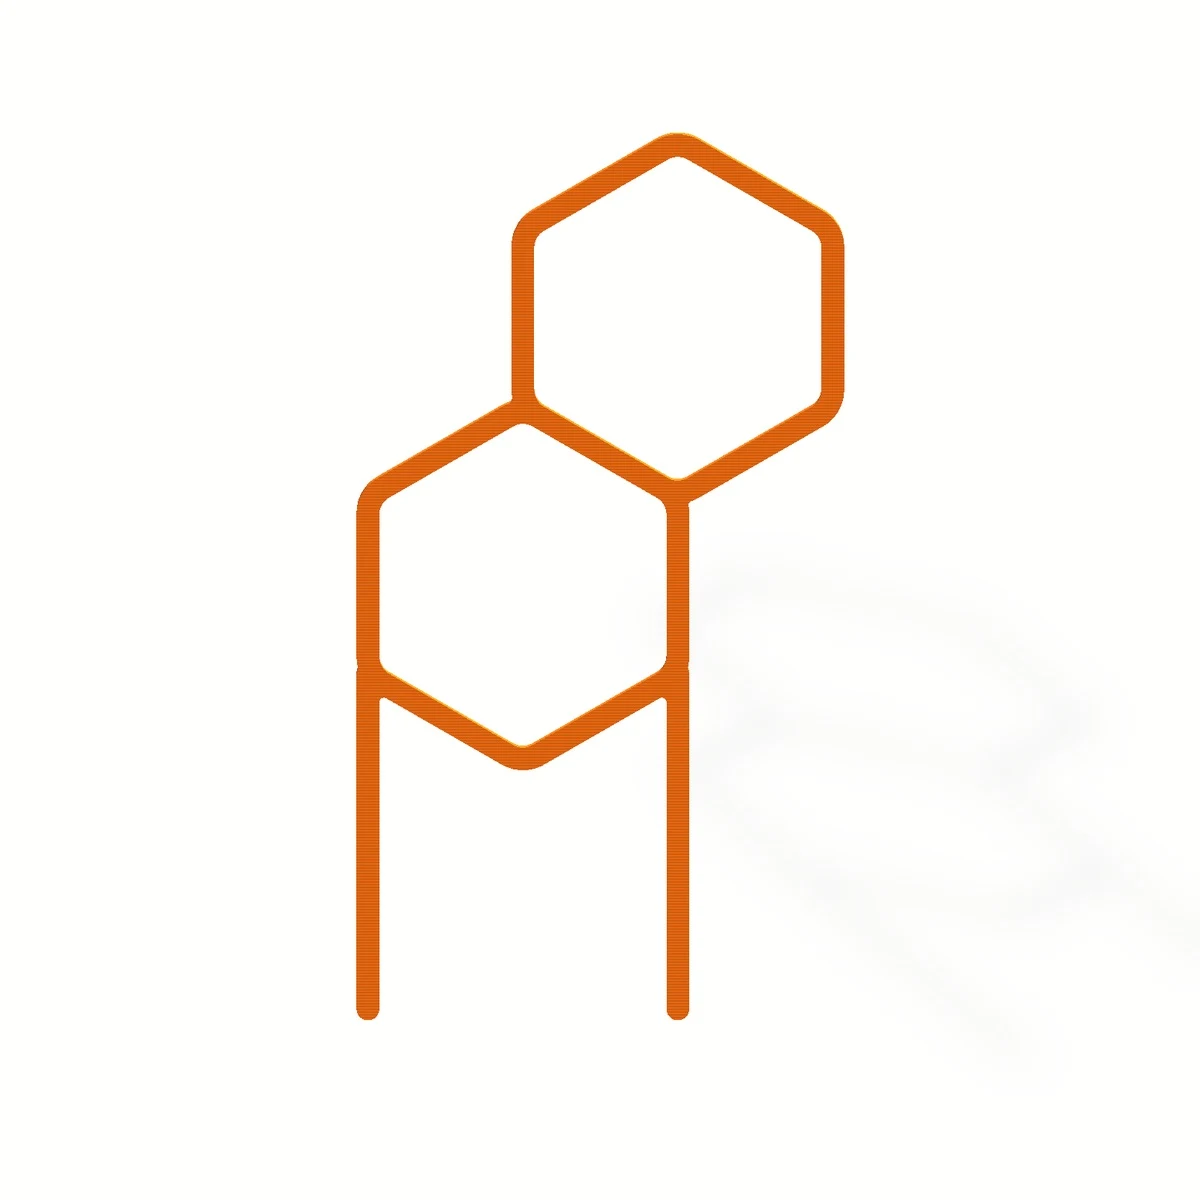
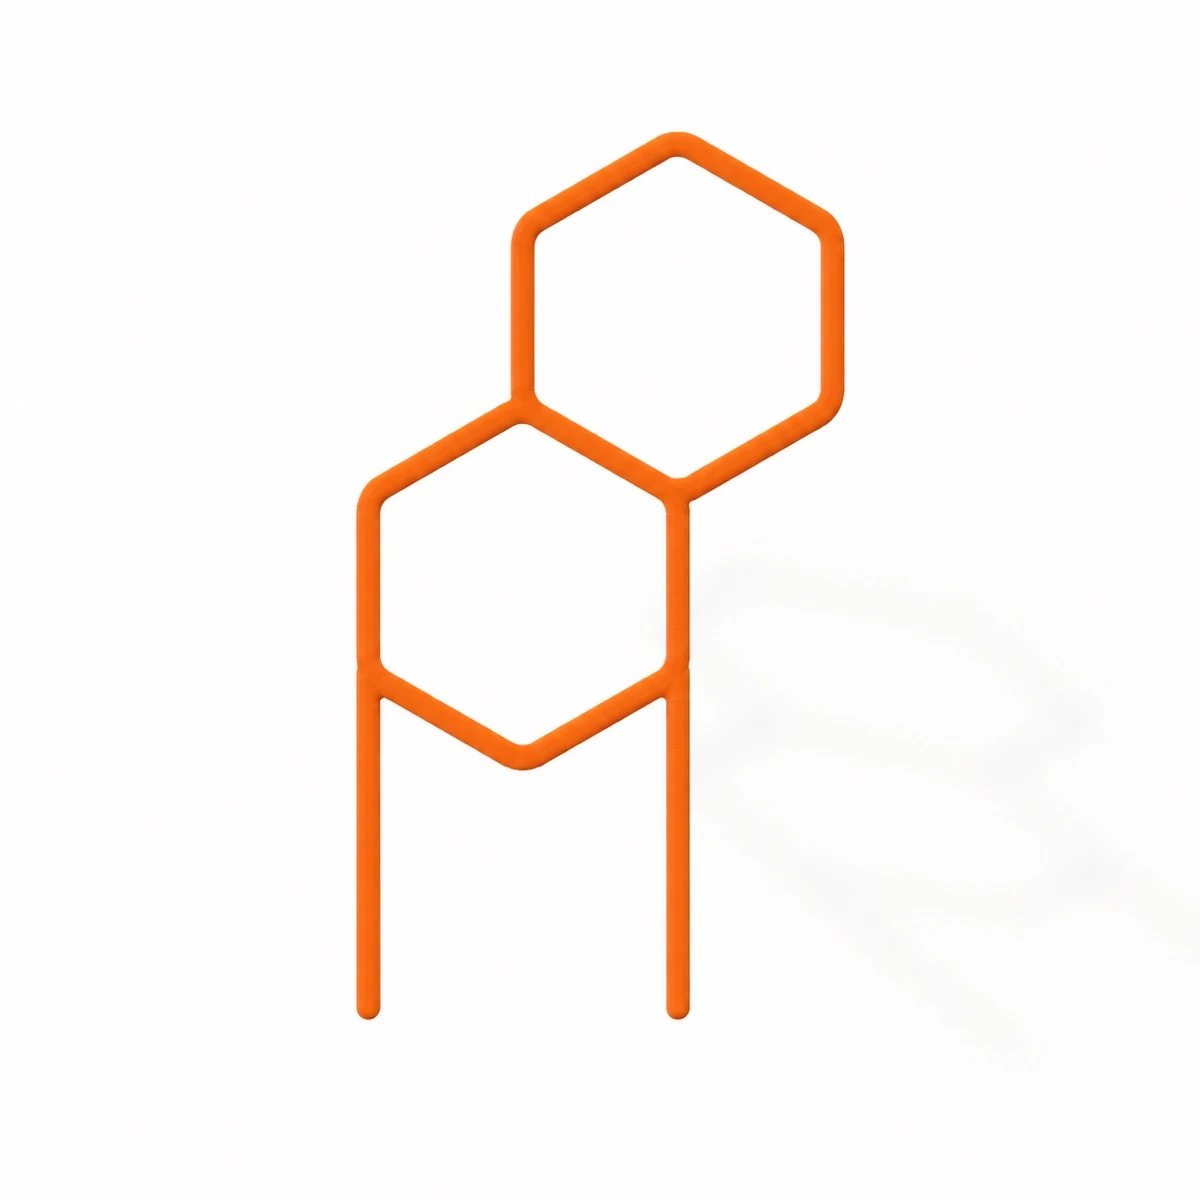
ホームの色切替にオレンジ/ライトグレーを追加（樹脂製品7点、Codex生成の色替え写真）

Changed region(s): [[0.2775, 0.1542, 0.4933, 0.8633], [0.4625, 0.0925, 0.7092, 0.8633]]

diff --git a/app/components/BaseClone.tsx b/app/components/BaseClone.tsx
@@ -11,19 +11,22 @@ const SHOP = "https://zukeplants.base.shop";
 
 // 2026-08-22 増澤さん要望: ホームでブラック/ホワイトを切り替え。商品画像とライフスタイル写真が連動する。
 // BASE 本店も各商品ページ内でブラック/ホワイトの2種展開のため、リンク先URLは色に関わらず同じ。
-type ColorKey = "black" | "white";
+type ColorKey = "black" | "white" | "orange" | "lightgray";
 
 // 2026-09-26 増澤さん指示「LPとBASEの商品を紐づける／並び順もBASEを正に」: products.ts（BASE順・baseUrl）から生成
 const products = PRODUCTS.map((p) => ({ name: p.fullName, price: yen(p.price), slug: p.slug, url: p.baseUrl }));
 
-// ホワイト展開のない商品はブラック画像を出す
-const NO_WHITE = new Set<string>([]);
-
-const productImage = (slug: string, color: ColorKey) => `/products/product-${slug}-${NO_WHITE.has(slug) ? "black" : color}.webp`;
+// 色展開: アイアン支柱・花瓶はブラック/ホワイトのみ。3Dプリント樹脂製品は4色（2026-09-26 増澤さん指示でオレンジ/ライトグレー追加）
+const FOUR_COLORS = new Set<string>(["hexpot-set", "hexpot-set2", "pole3pla", "pole2pla", "hexpot", "pole1pla", "hexparts"]);
+const hasColor = (slug: string, color: ColorKey) => color === "black" || color === "white" || FOUR_COLORS.has(slug);
+const productImage = (slug: string, color: ColorKey) => `/products/product-${slug}-${hasColor(slug, color) ? color : "black"}.webp`;
+const lifestyleImage = (color: ColorKey) => `/lifestyle-hex-${color === "white" ? "white" : "black"}.jpg`;
 
 const COLORS: { key: ColorKey; label: string; swatch: string }[] = [
   { key: "black", label: "ブラック", swatch: "#222" },
   { key: "white", label: "ホワイト", swatch: "#EDEAE3" },
+  { key: "orange", label: "オレンジ", swatch: "#F06A1E" },
+  { key: "lightgray", label: "ライトグレー", swatch: "#C9CACB" },
 ];
 
 export default function BaseClone({ showLifestyle = false }: { showLifestyle?: boolean }) {
@@ -142,7 +145,7 @@ export default function BaseClone({ showLifestyle = false }: { showLifestyle?: b
         {showLifestyle && (
           <div className="mt-8 relative w-full max-w-lg mx-auto aspect-square overflow-hidden bg-[#f5f4f2]">
             <Image
-              src={`/lifestyle-hex-${color}.jpg`}
+              src={lifestyleImage(color)}
               alt={`コンクリート壁の棚に飾った PLANTS POLE（${COLORS.find((c) => c.key === color)?.label}）と蔓性の観葉植物。六角形の影が壁に映るインテリアグリーンの実例`}
               fill
               priority
